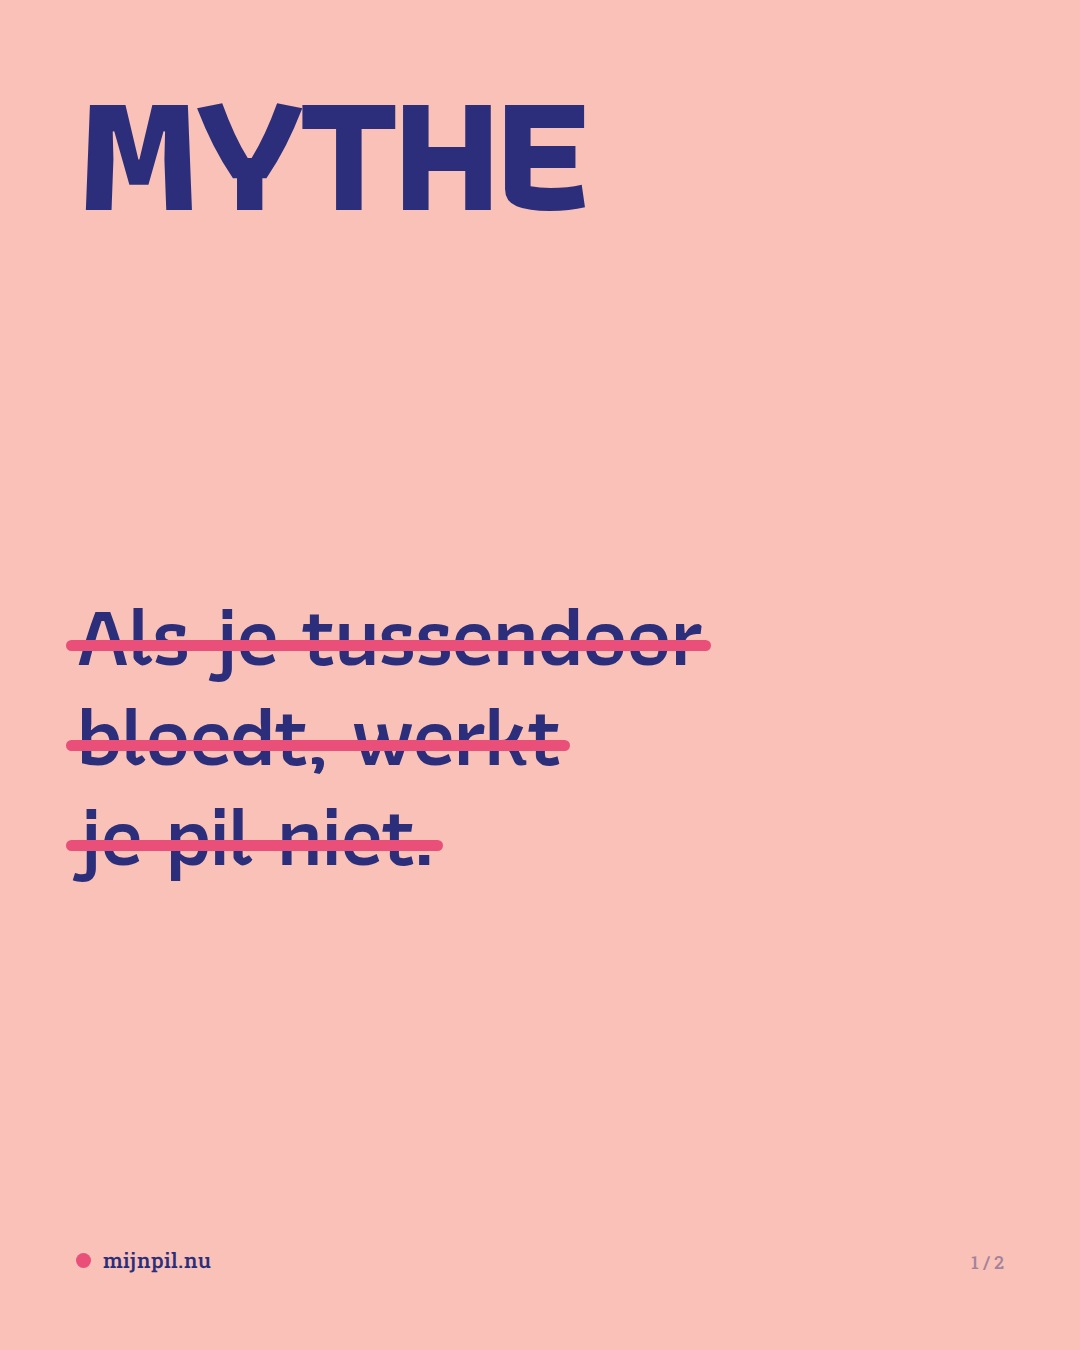
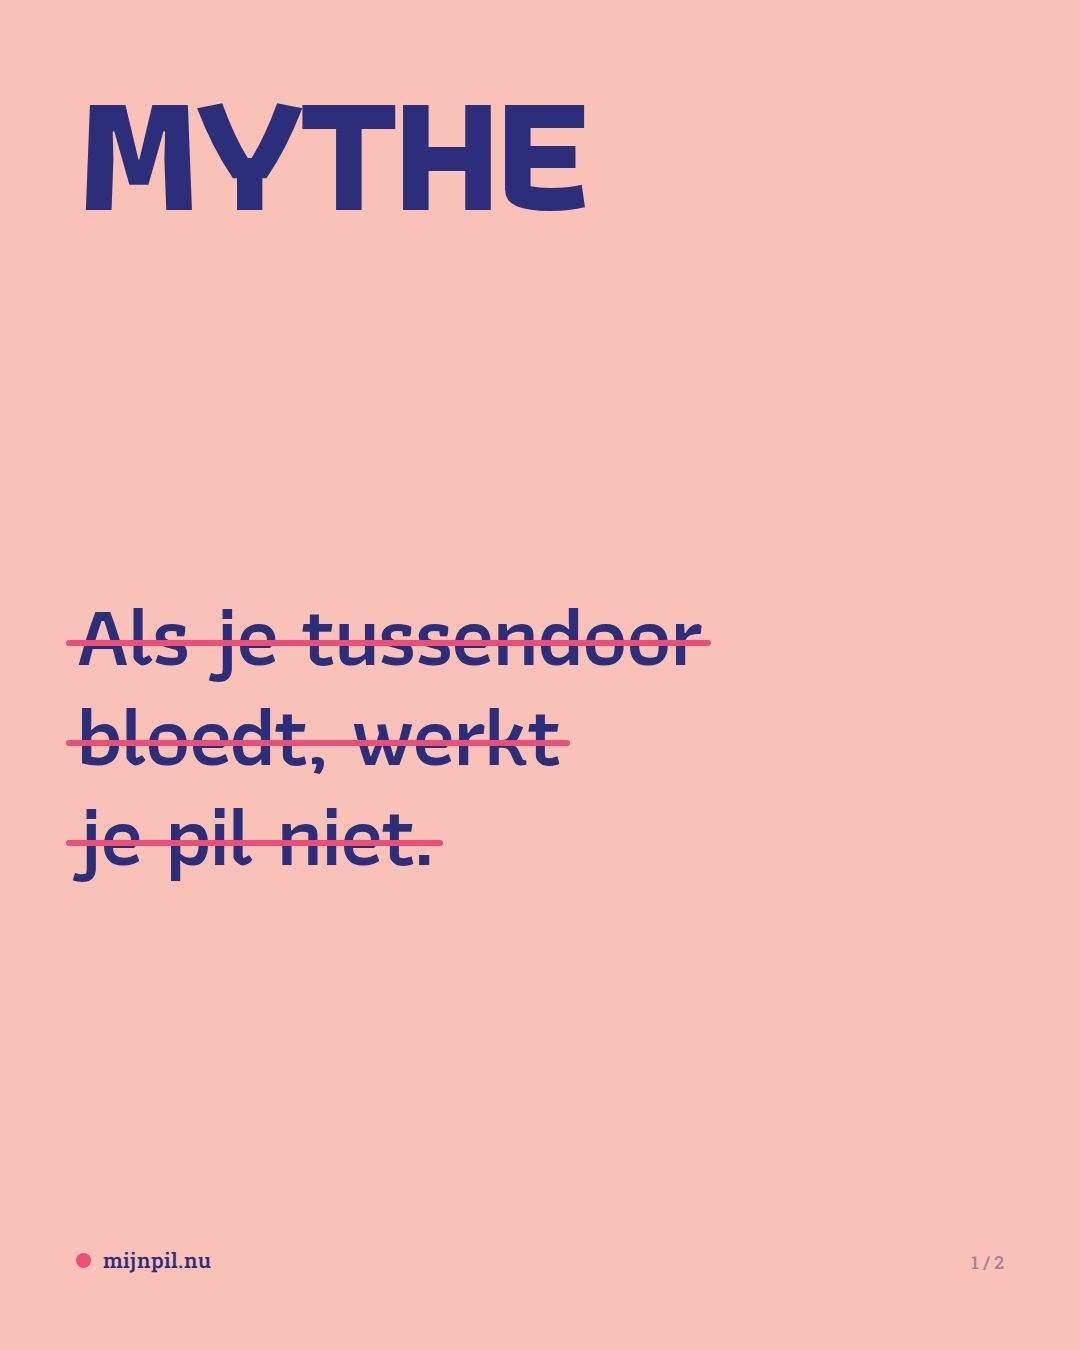
Mythe: doorstreping van 11 naar 6 pixels

Changed region(s): [[0.0611, 0.4667, 0.6417, 0.4978], [0.0611, 0.5289, 0.5194, 0.56], [0.0611, 0.6222, 0.3972, 0.6533]]

diff --git a/pipeline/concepts.py b/pipeline/concepts.py
@@ -75,7 +75,7 @@ def mythe(lines, n="1 / 2", w=1080, h=1350):
        letter-spacing:-.025em}
     .s i{position:relative;font-style:normal;display:inline-block}
     .s i::after{content:'';position:absolute;left:-10px;right:-10px;top:54%;
-      height:11px;border-radius:6px;background:var(--pink)}
+      height:6px;border-radius:3px;background:var(--pink)}
     .n{font-size:18px;font-weight:500;opacity:.42}
     """
     body = "".join(f"<div><i>{t}</i></div>" for t in lines)
